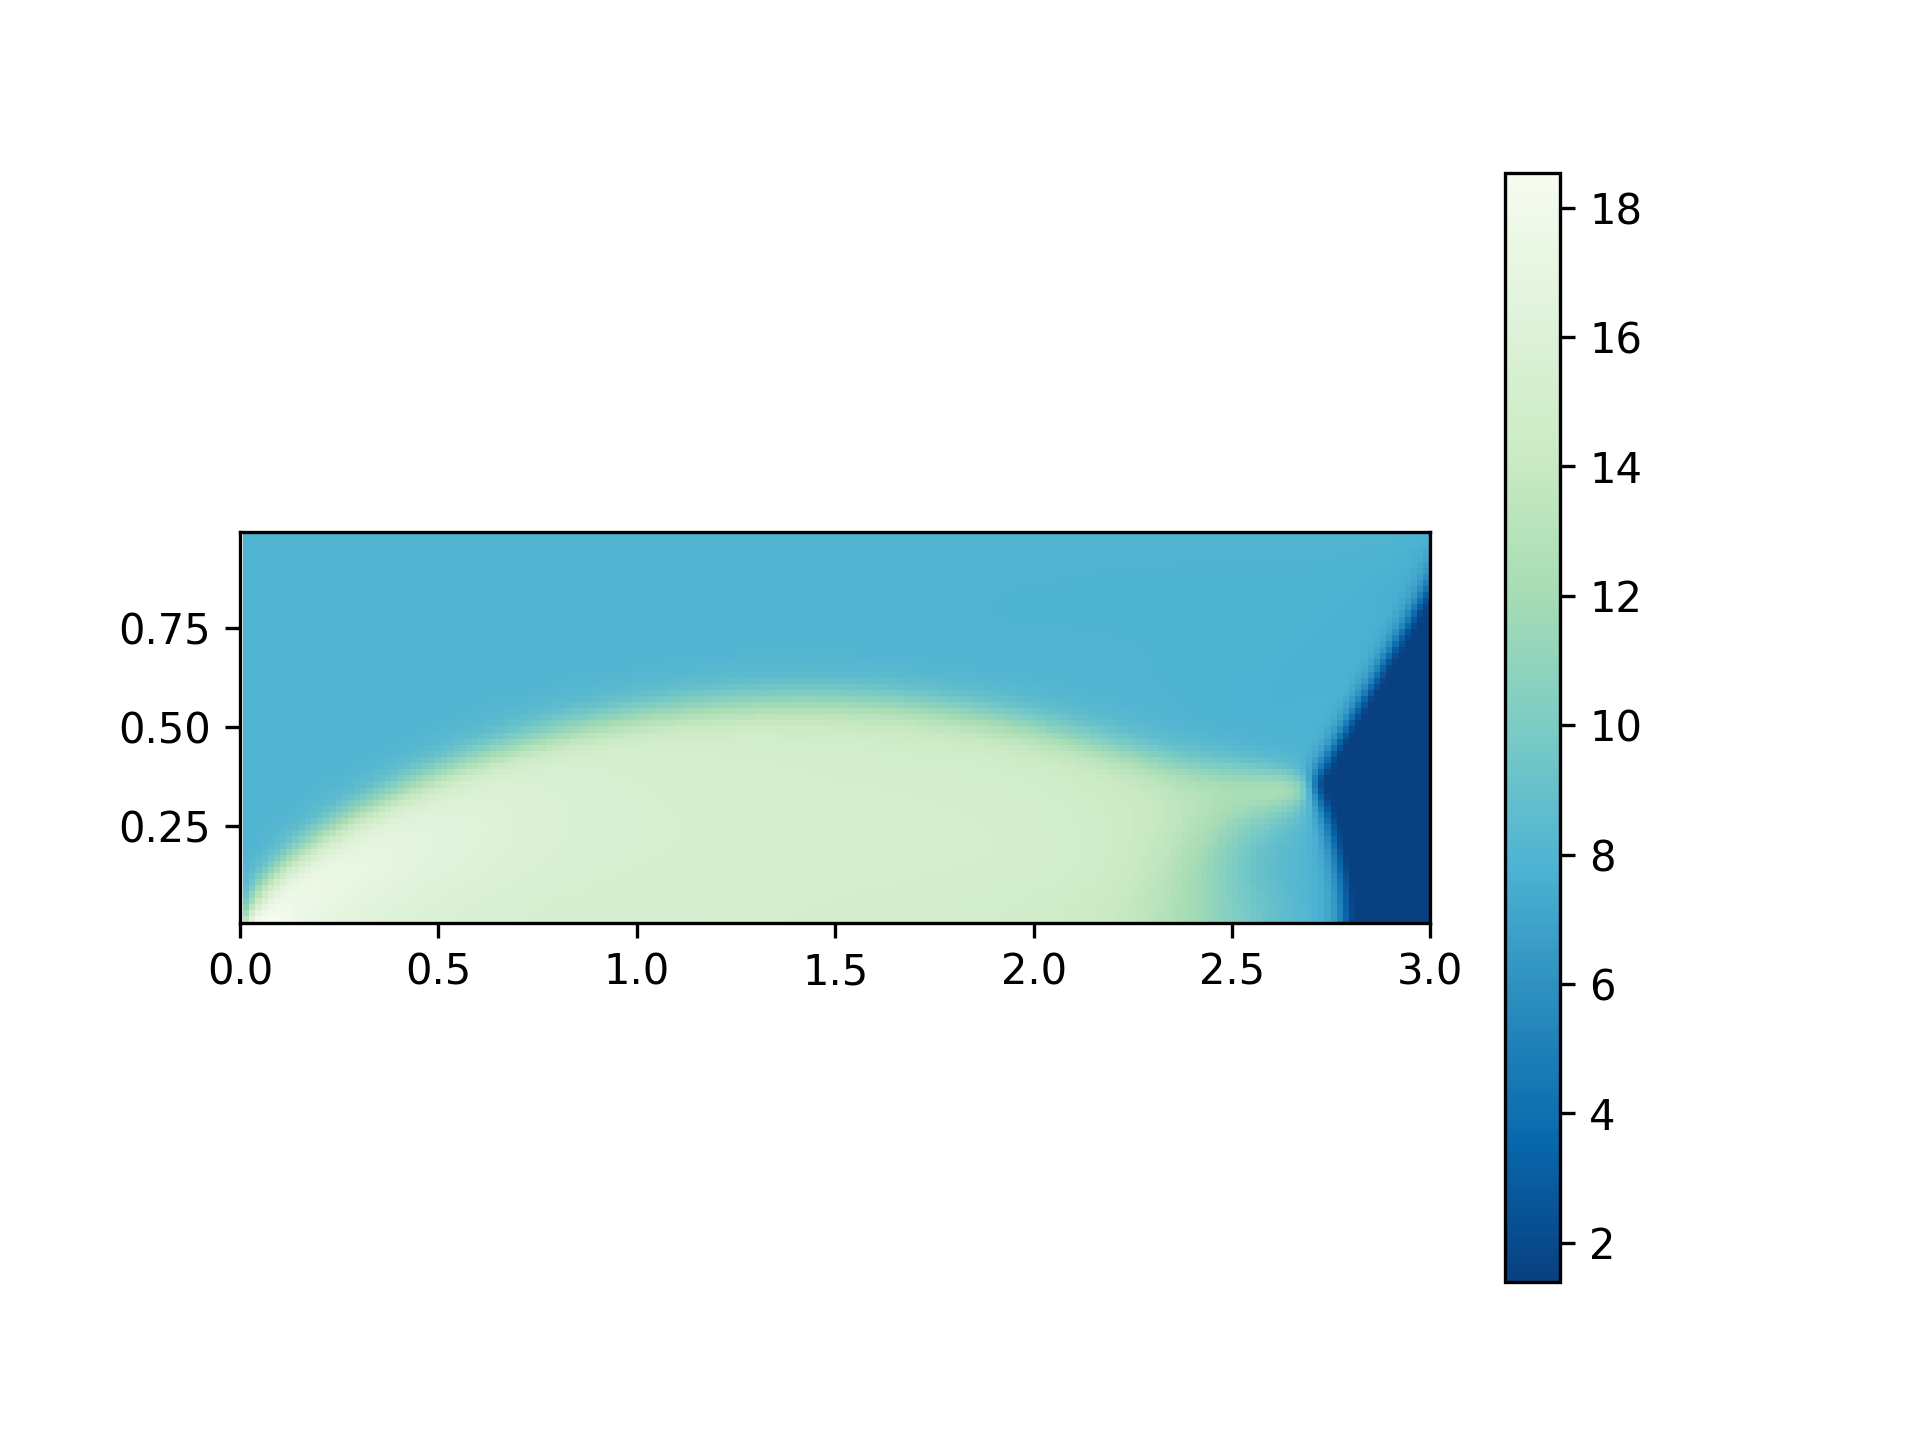
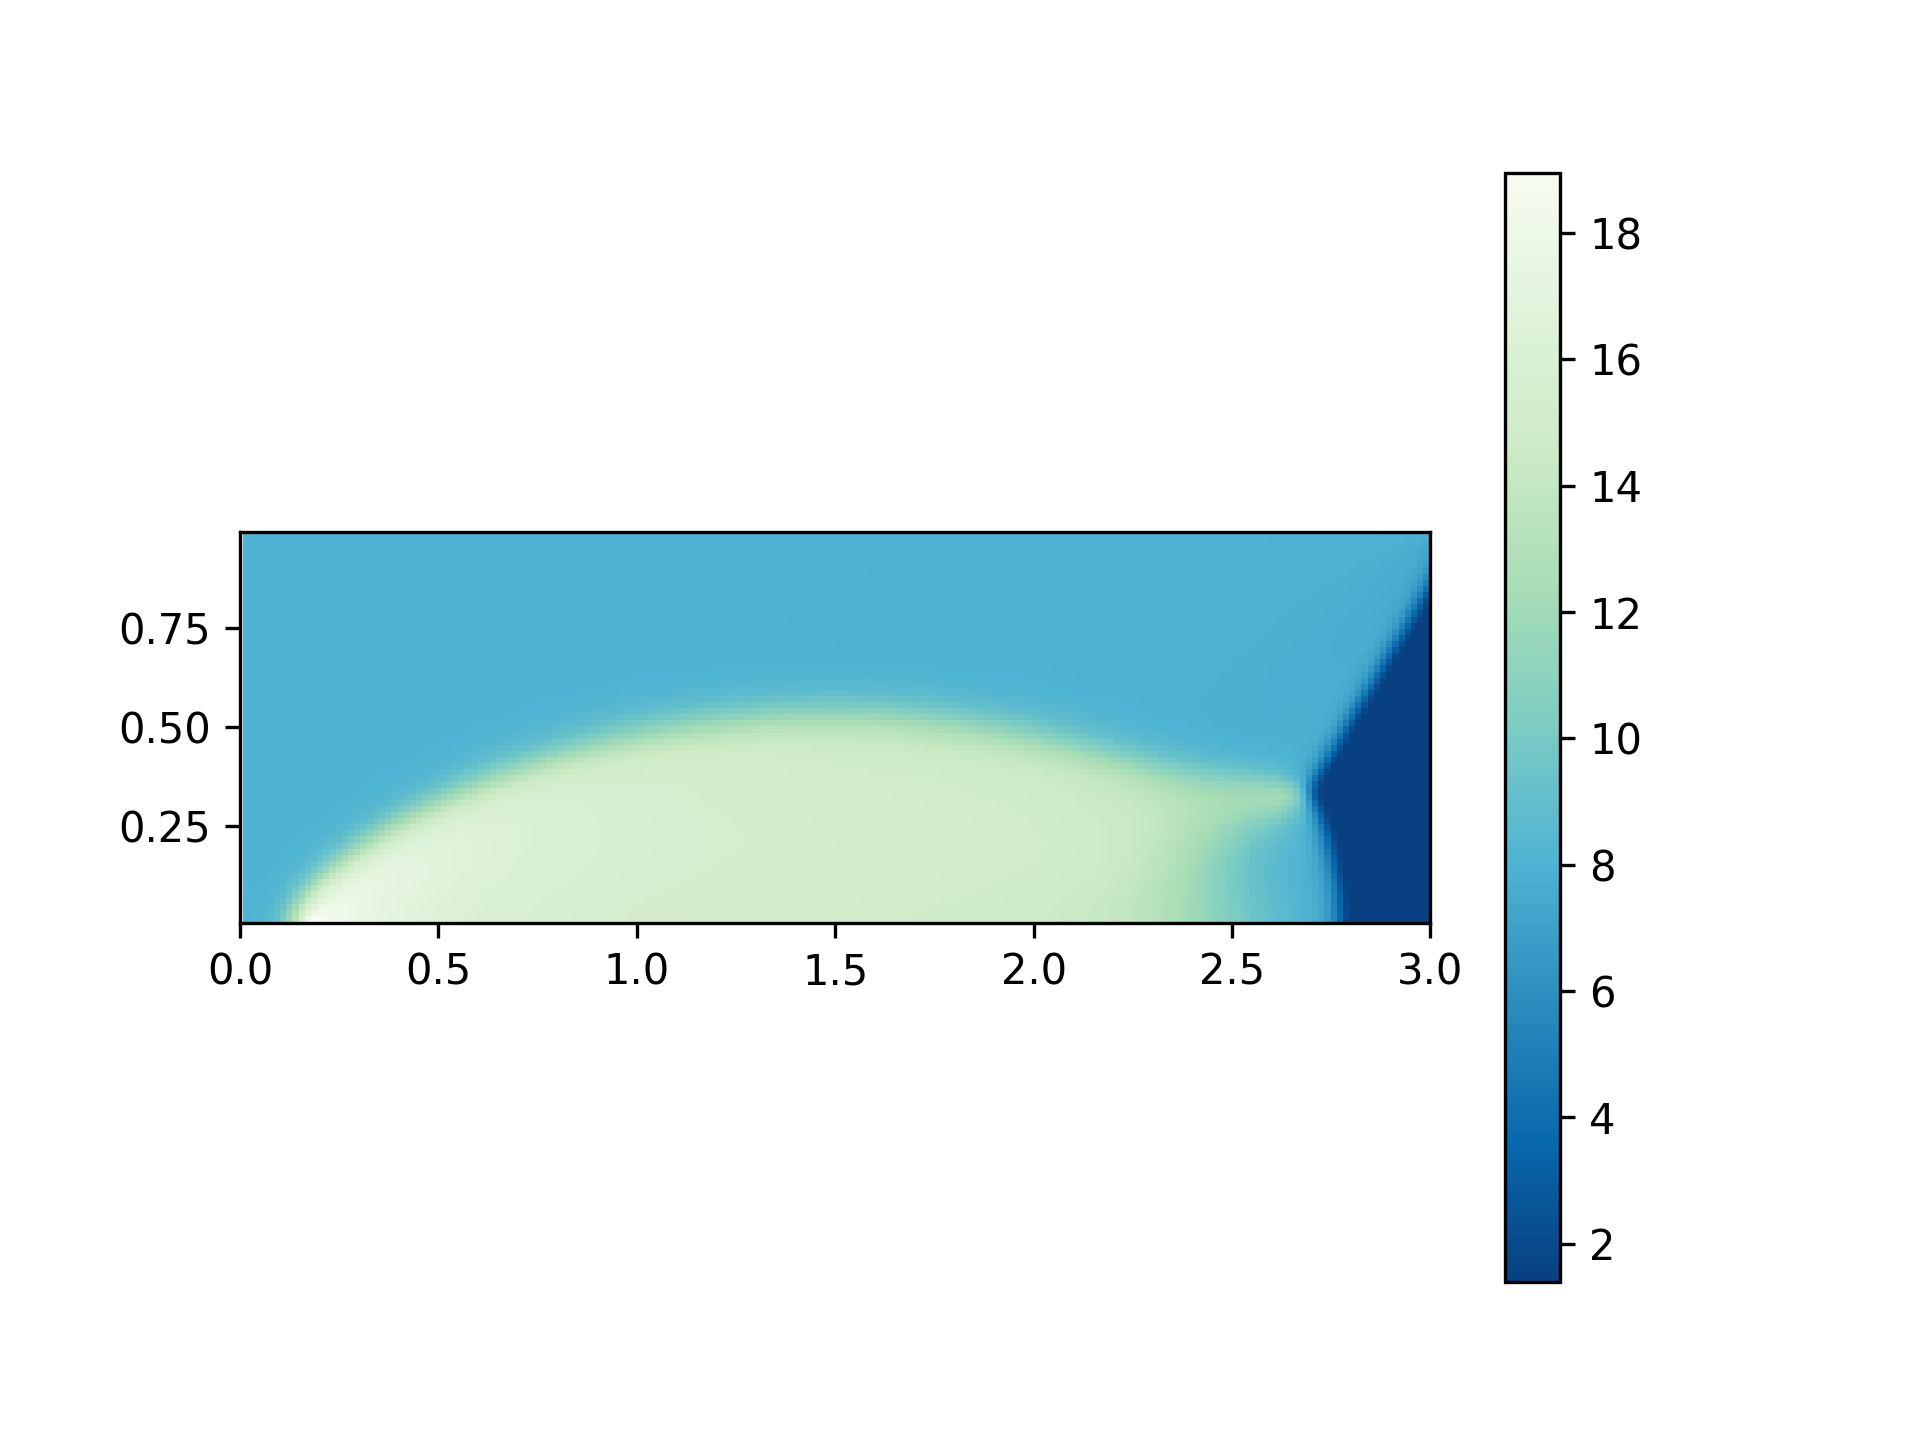
fix: double mach reflection

diff --git a/benchmarks/double-mach-reflection/__main__.py b/benchmarks/double-mach-reflection/__main__.py
@@ -41,21 +41,20 @@ def patch_bc(_u_, context):
     xp = context.xp
 
     slab_thickness = context.slab_thickness
-    axis = context.axis
     mesh = context.mesh
 
     X, _, _ = mesh.get_cell_centers()
     x = X[:, 0, 0]
     idx = xp.max(xp.where(x < 1 / 6)[0]) + slab_thickness
 
-    section1 = crop(axis, (None, idx), ndim=4)
-    section2 = crop(axis, (None, idx), ndim=4)
+    section1 = crop(1, (None, idx), ndim=4)
+    section2 = crop(1, (idx, None), ndim=4)
 
     apply_free_bc(_u_[section1], context)
     apply_reflective_bc(_u_[section2], context)
 
 
-N = 64
+Nx = 256
 
 sim = EulerSolver(
     ic=double_mach_reflection,
@@ -64,12 +63,12 @@ sim = EulerSolver(
     bcx_callable=(dirichlet_x0, None),
     bcy_callable=(patch_bc, dirichlet_y1),
     xlim=(0, 4),
-    nx=4 * N,
-    ny=N,
+    nx=Nx,
+    ny=Nx // 4,
     p=0,
 )
 
-sim.run(0.2)
+sim.run(0.2, log_freq=10)
 
 
 fig, ax = plt.subplots()
